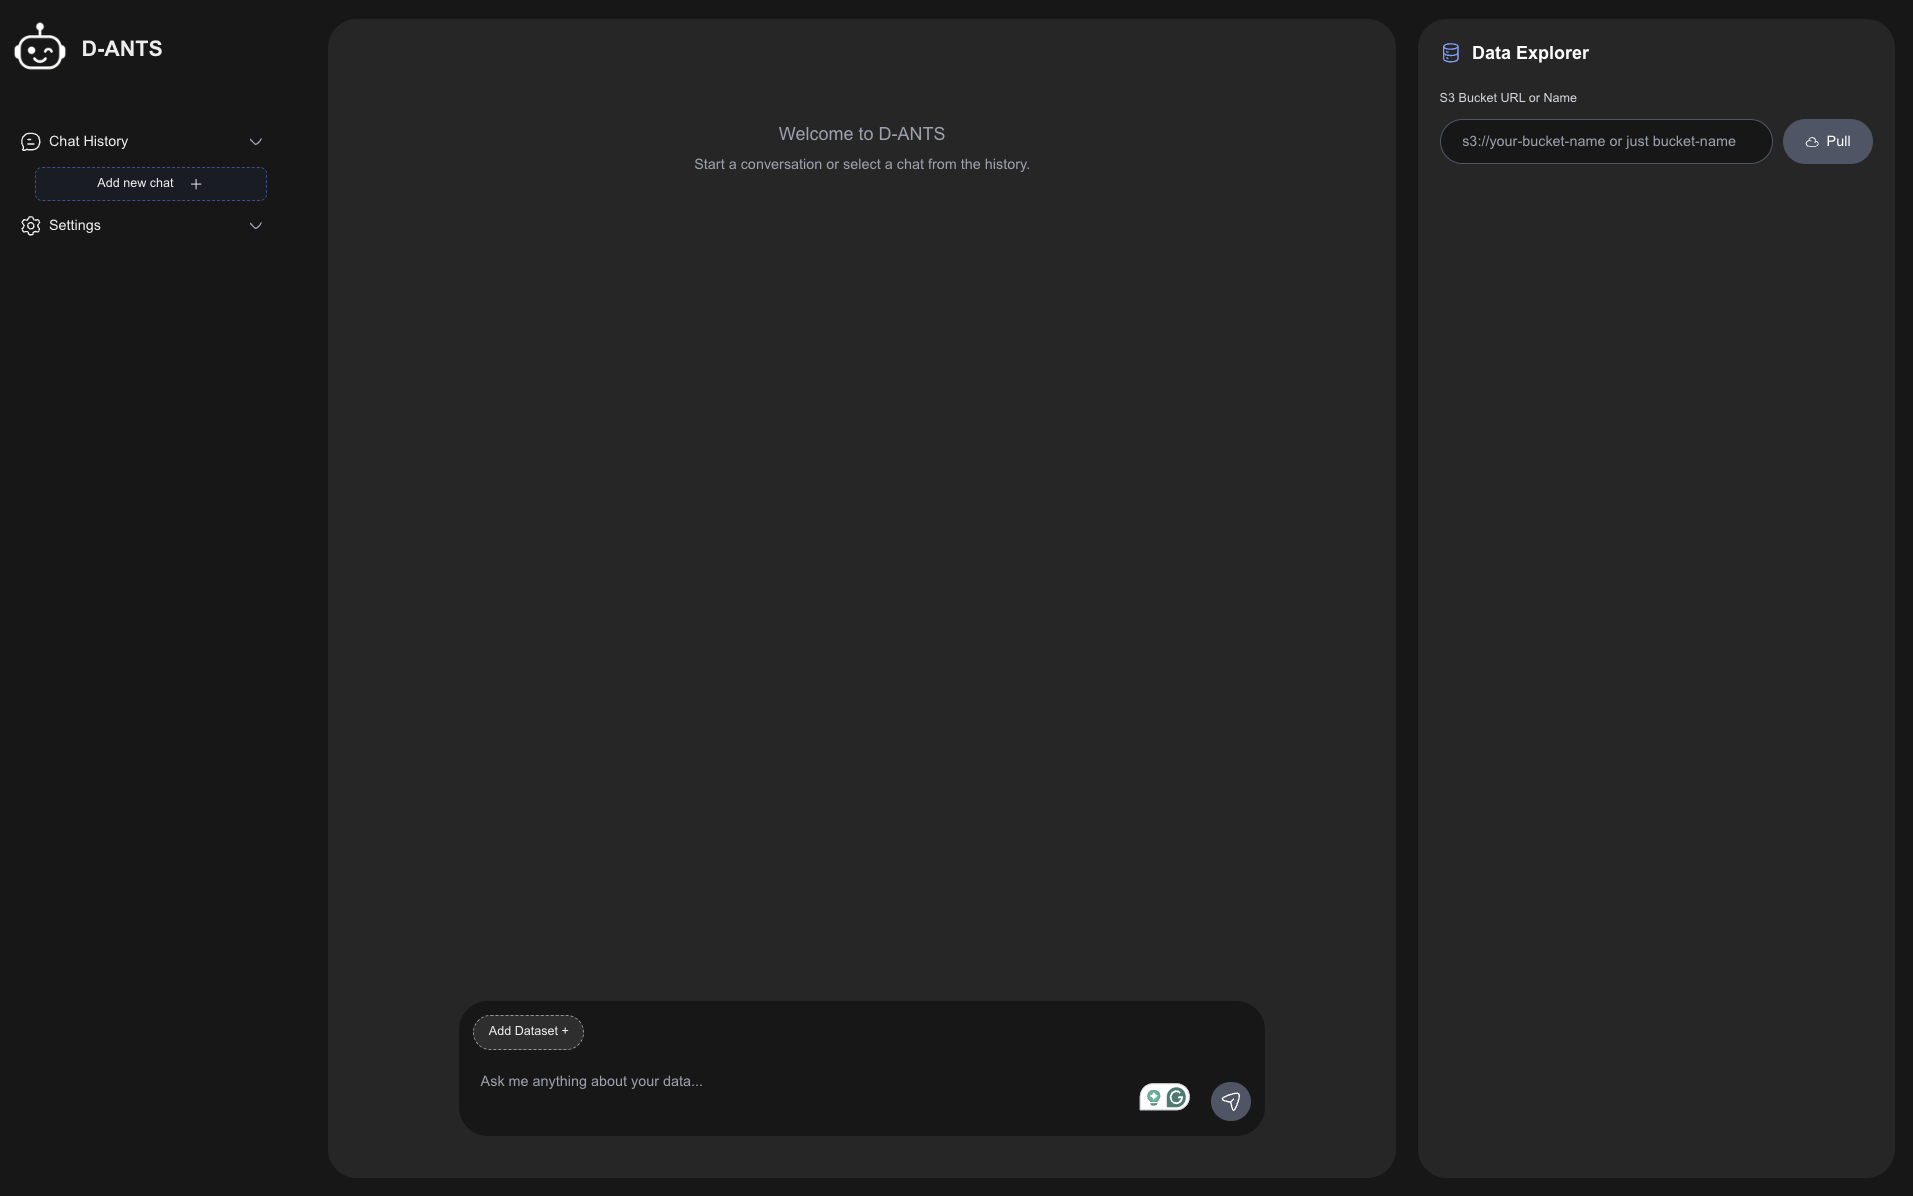
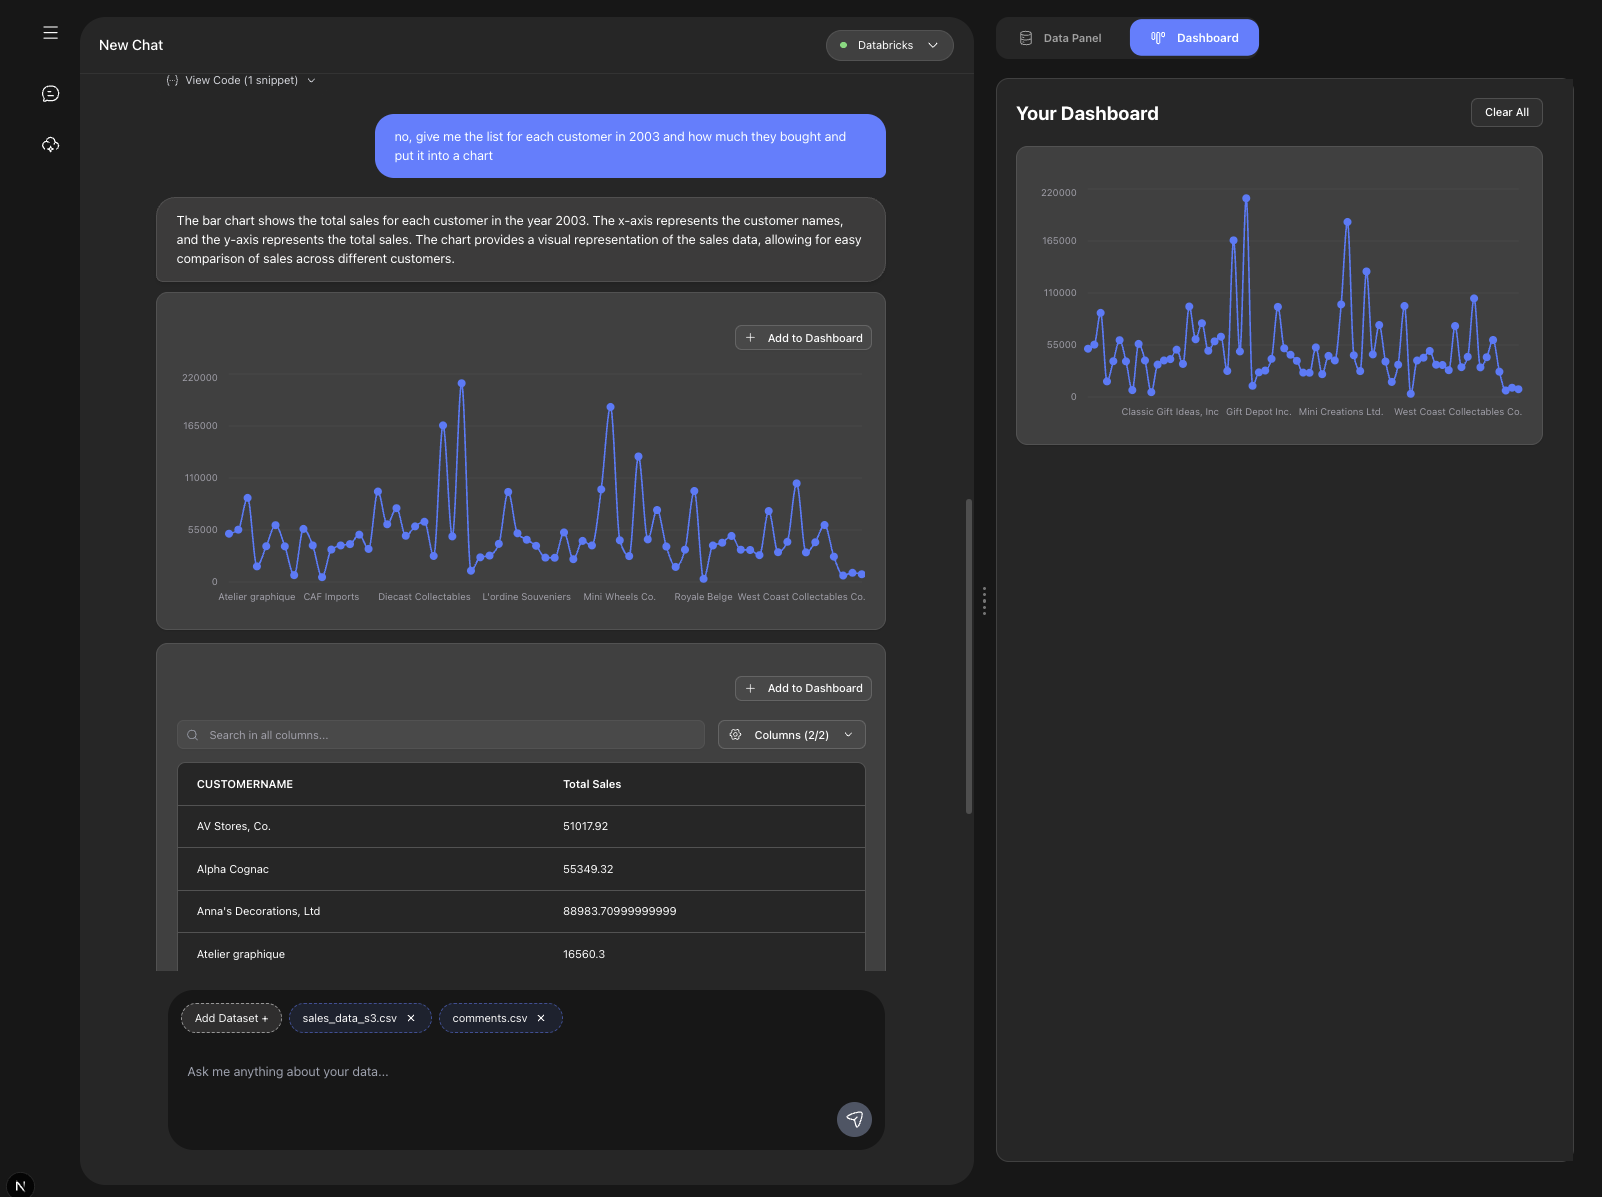
docs: Remove note about repository readiness from README

diff --git a/README.md b/README.md
@@ -6,8 +6,6 @@
 
 AI-D-ANTS is an intelligent data analysis and anomaly detection system designed to interact with millions of documents across various data sources. This powerful tool enables you to map, analyze, and detect anomalies in your data, whether stored locally or in cloud storage like AWS S3.
 
-NOTE: THE REPO IS NOT READY YET, IT'S NOT WORKING WELL YET, THE FIRST VERSION WILL BE OUT IN 24 AUGUST 2025.
-
 ![AI-D-ANTS Logo](images/ai-d-ants.png)
 
 ## Features